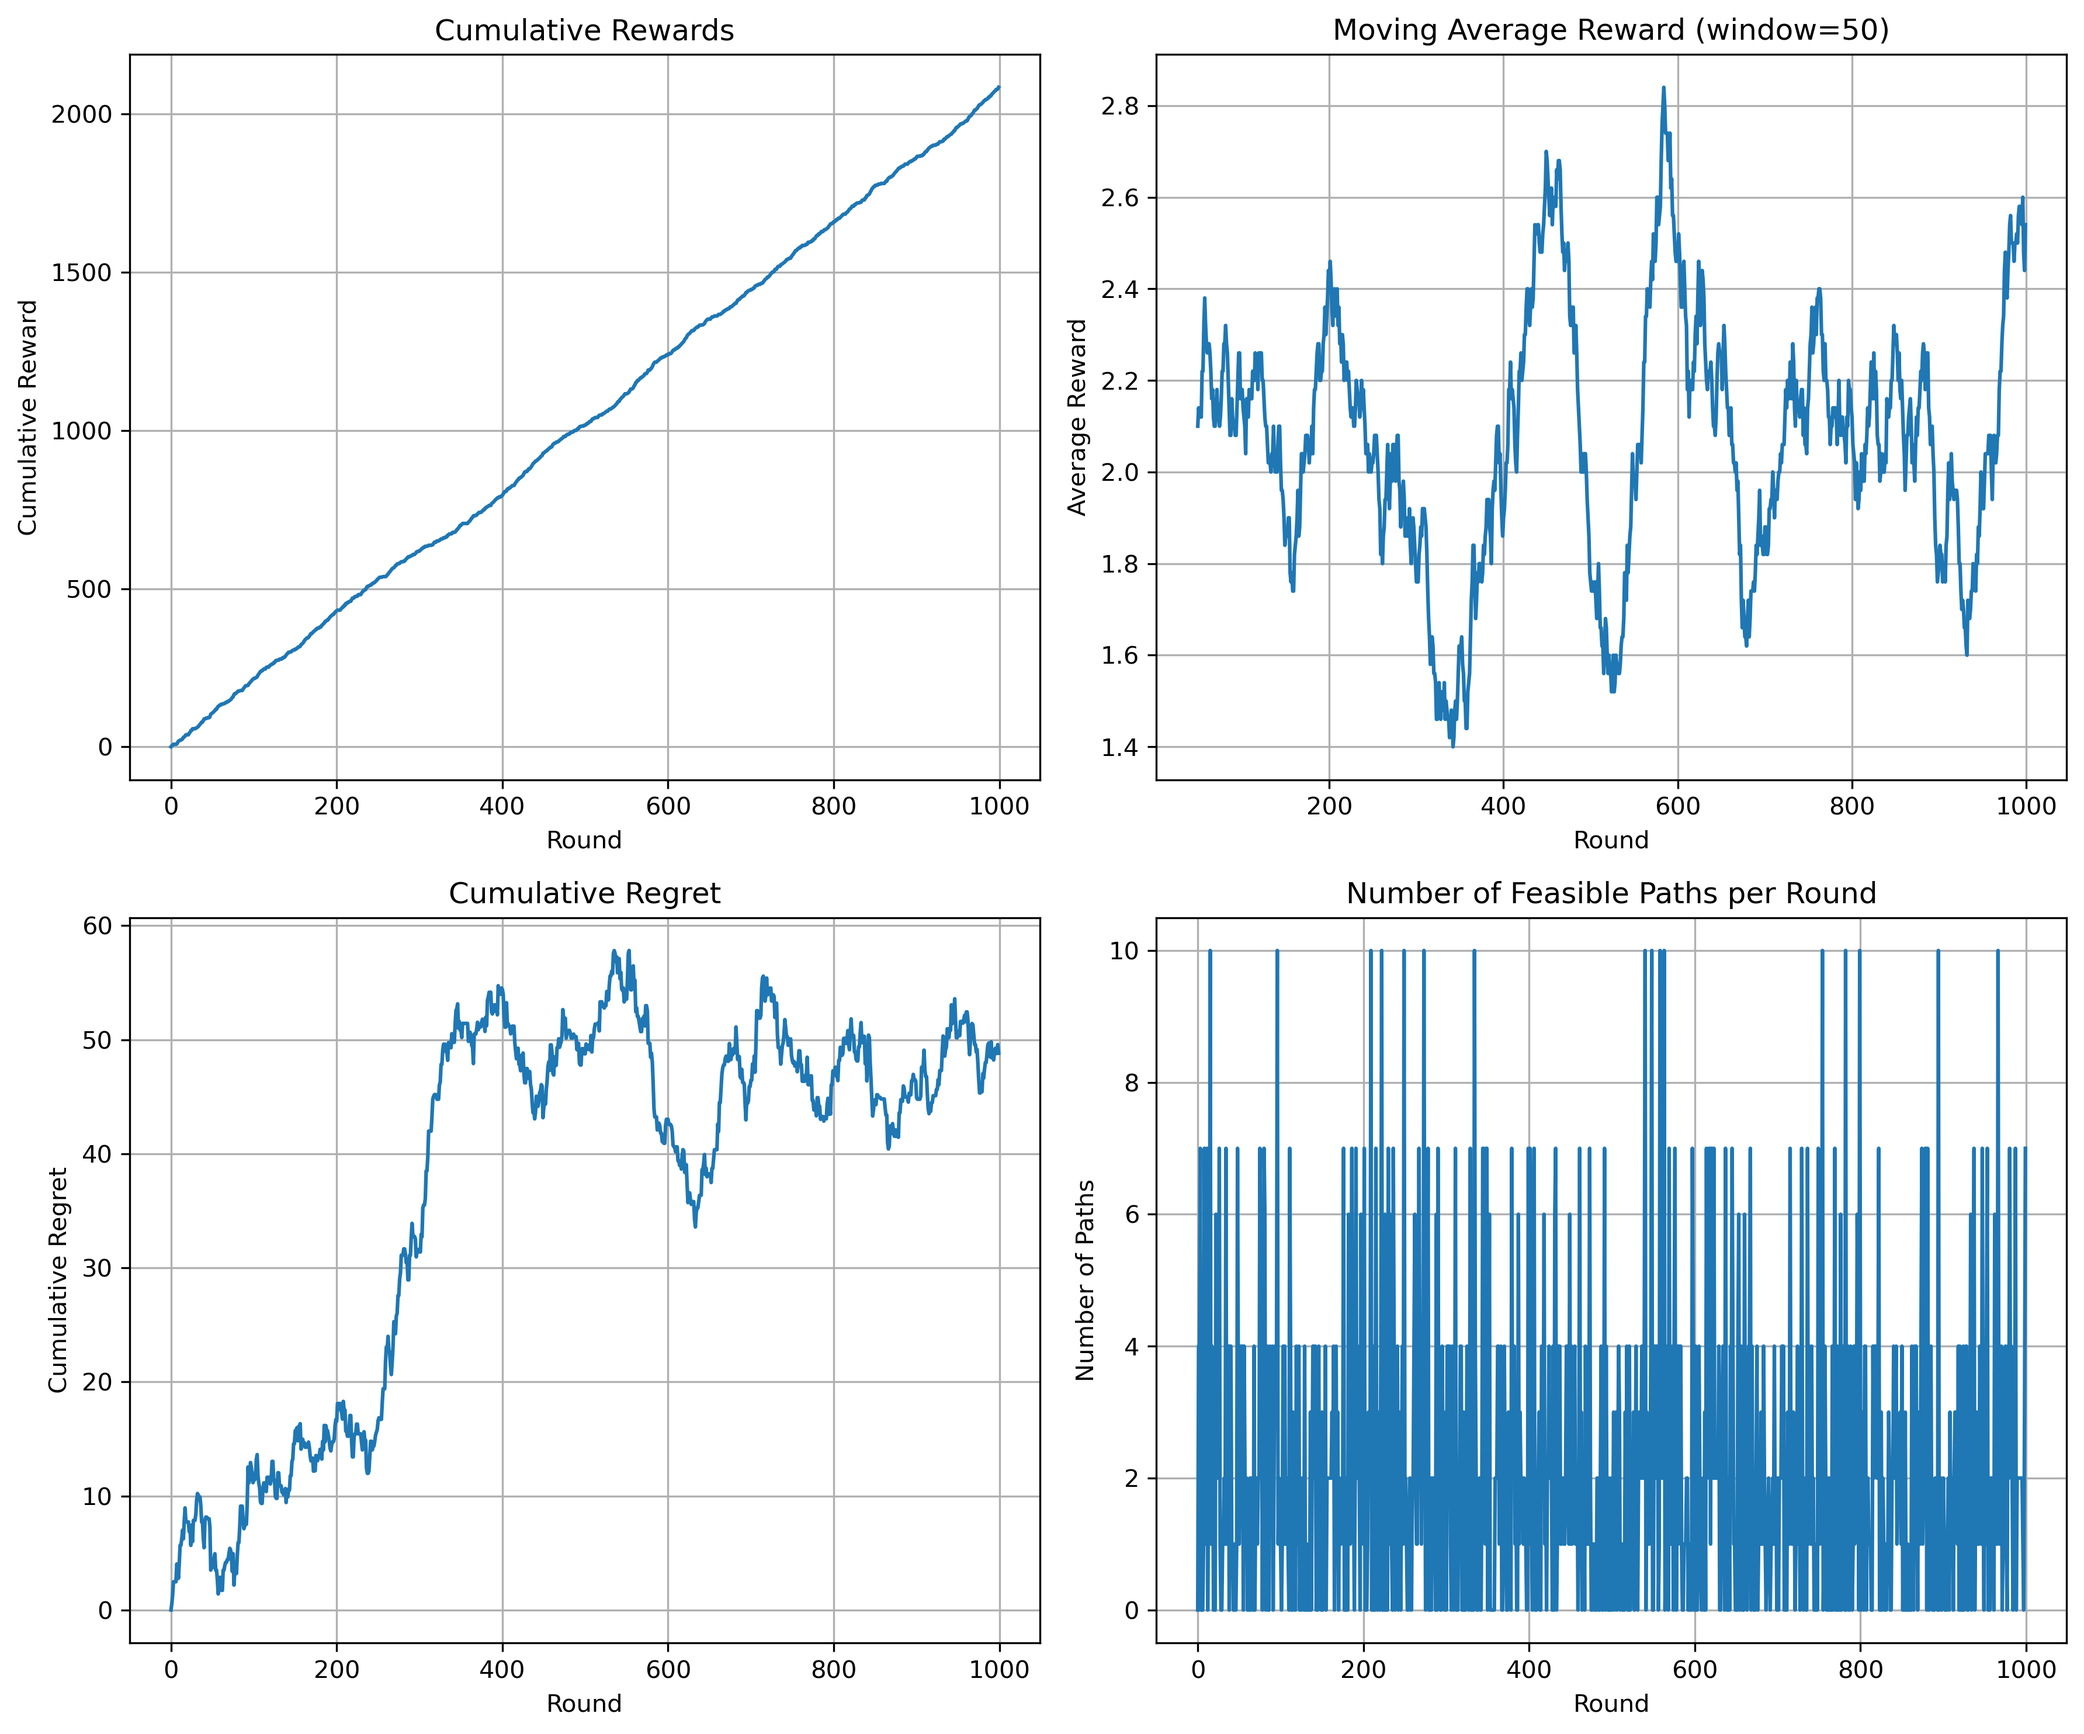
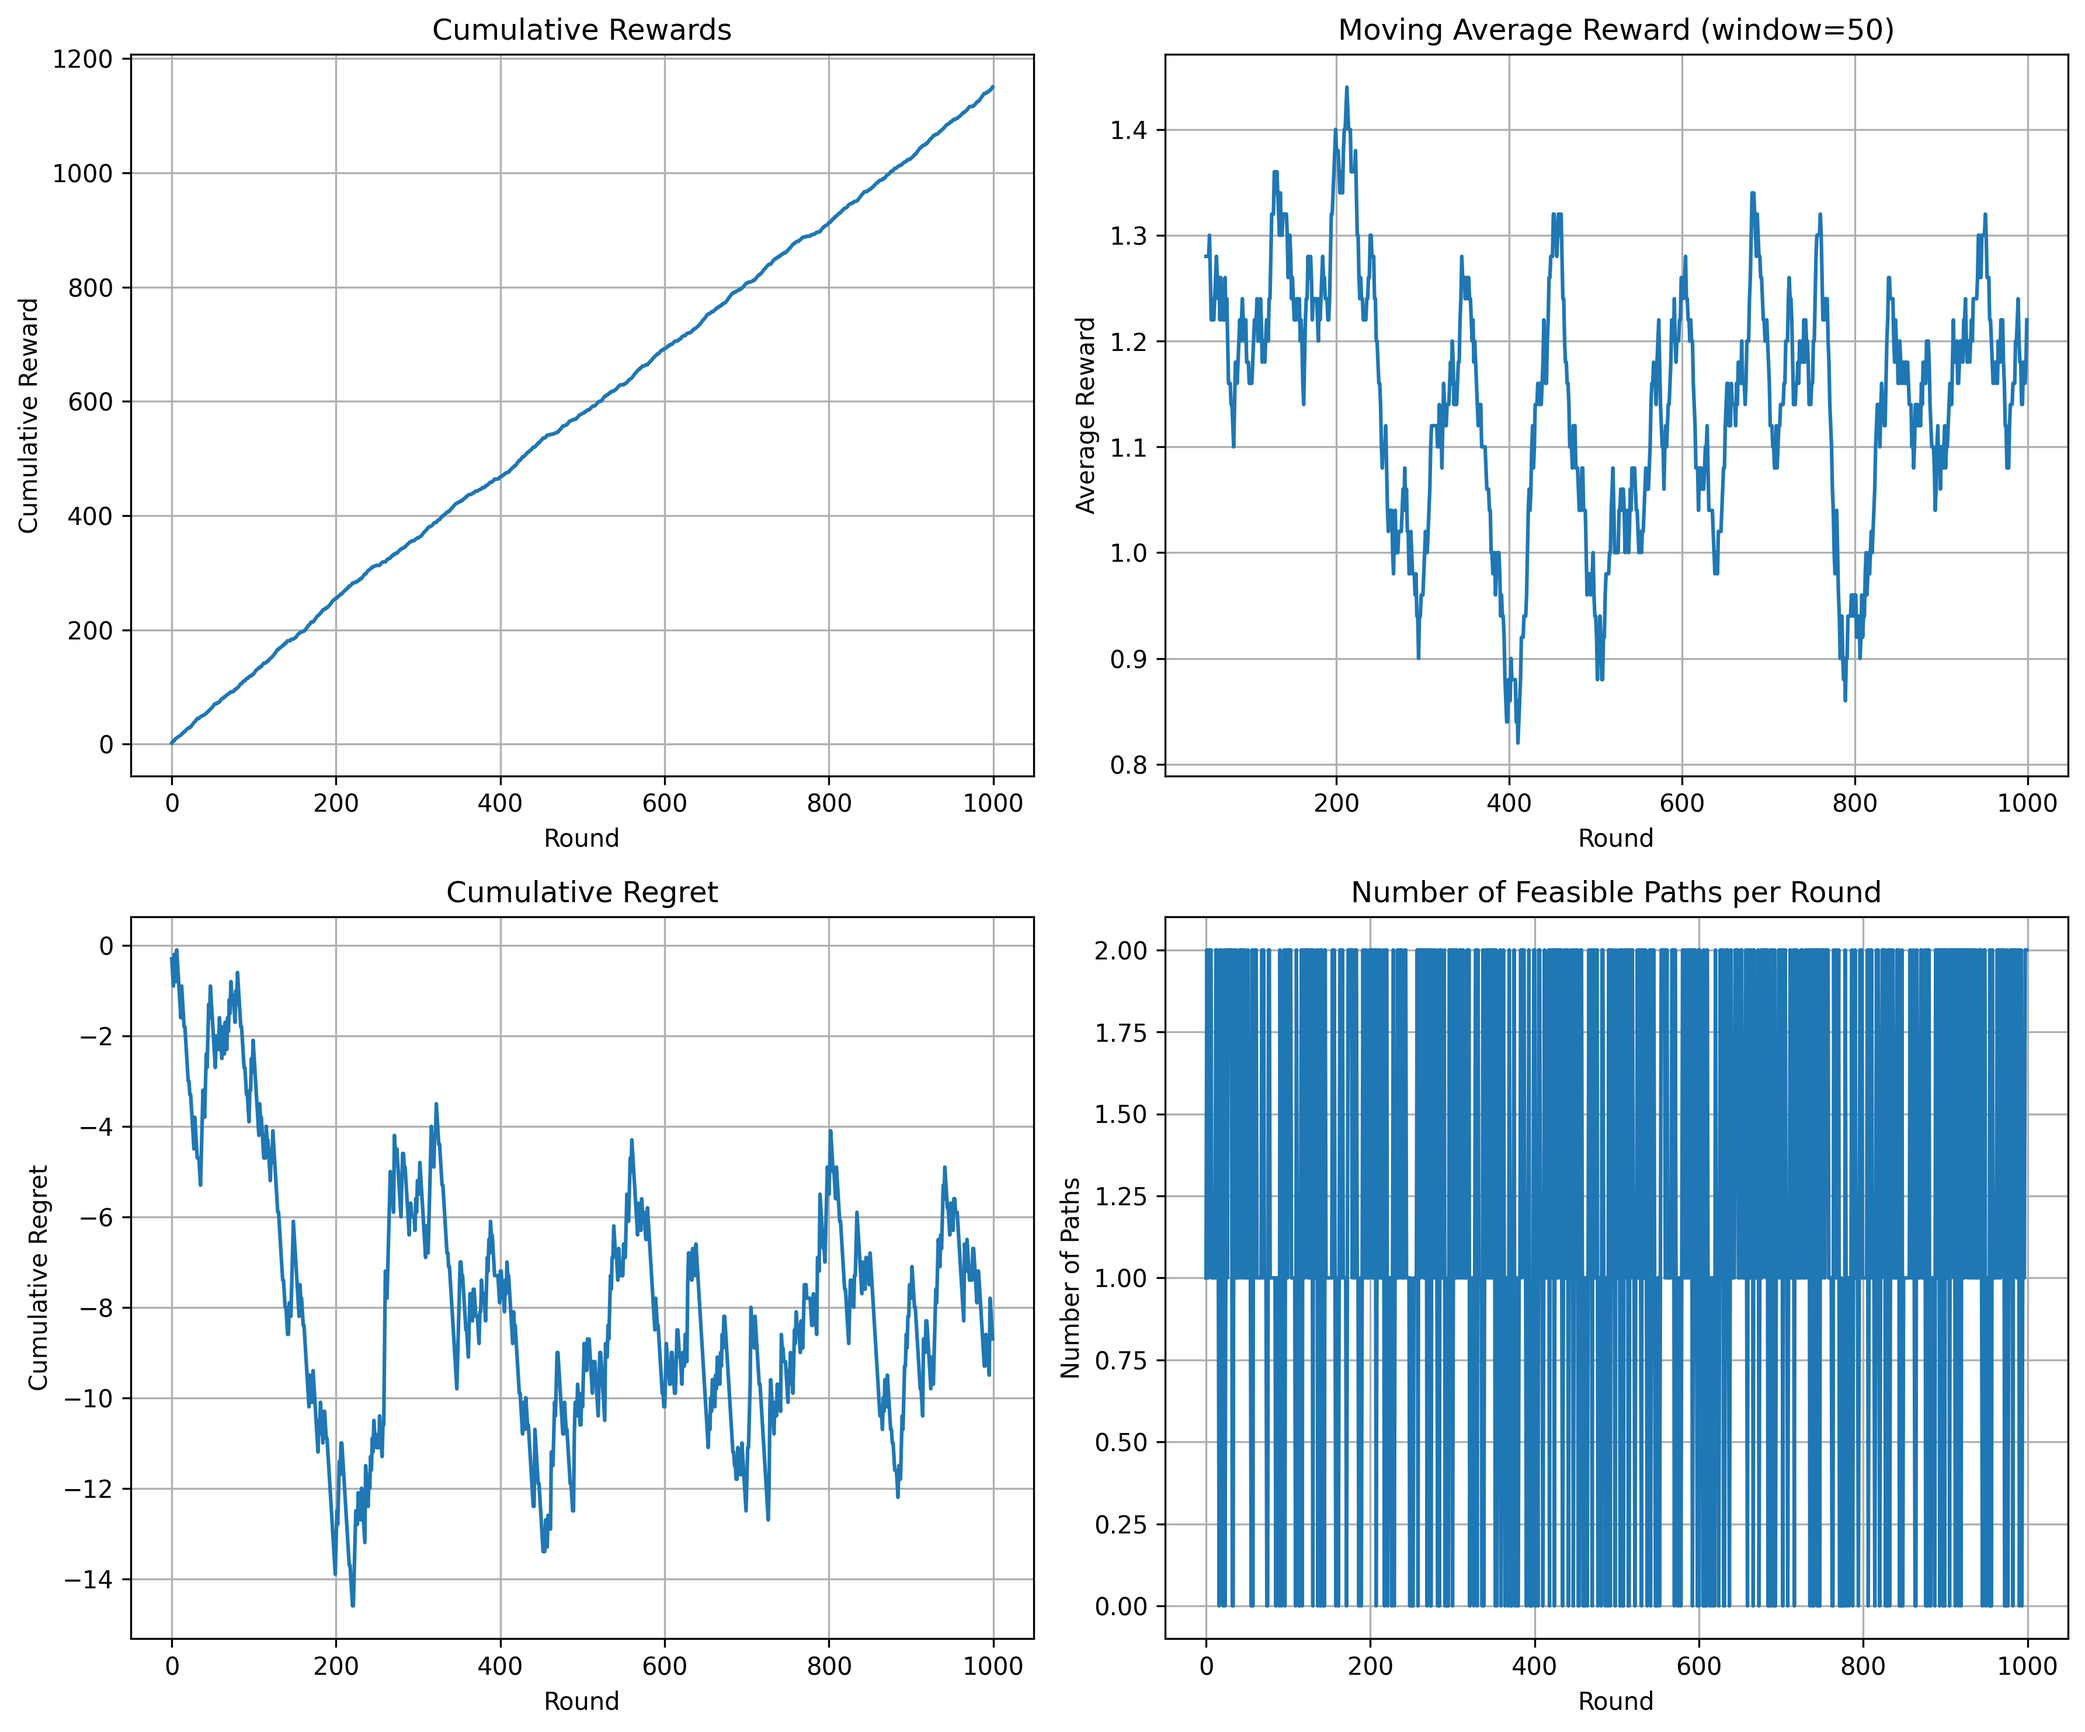
Add nodes to graph and update routing environment initialization (#5)

diff --git a/tests/test_implementation.py b/tests/test_implementation.py
@@ -18,13 +18,11 @@ def test_routing_environment():
     print("Testing RoutingEnvironment...")
     
     # Create a simple test network
-    G = nx.Graph()
-    G.add_edges_from([(0, 1), (1, 2), (0, 2)])
-    
+    num_nodes = 3
     availability_probs = {(0, 1): 0.8, (0, 2): 0.6, (1, 2): 0.9}
     reward_means = {(0, 1): 0.7, (0, 2): 0.5, (1, 2): 0.8}
     
-    env = RoutingEnvironment(G, availability_probs, reward_means, source=0, target=2)
+    env = RoutingEnvironment(num_nodes, availability_probs, reward_means, source=0, target=2)
     
     # Test sampling available graph
     available_graph = env.sample_available_graph()

diff --git a/src/routing_environment.py b/src/routing_environment.py
@@ -68,6 +68,9 @@ class RoutingEnvironment:
         """
         available_graph = nx.DiGraph()
         
+        # Add all nodes to ensure they exist in the graph
+        available_graph.add_nodes_from(range(self.num_nodes))
+        
         for (u, v), prob in self.edge_availability_probs.items():
             if random.random() < prob:
                 available_graph.add_edge(u, v)
